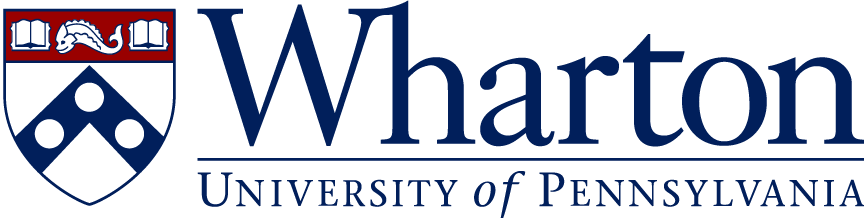
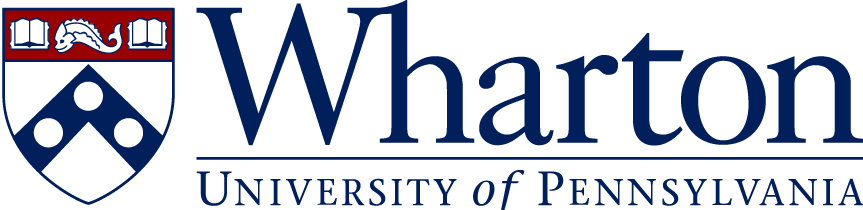
formats

diff --git a/index.html b/index.html
@@ -43,11 +43,11 @@
 
 
 <section id="about" class="w-full">
-    <div class="container flex mx-auto  justify-center md:justify-start" >
+    <div class="container flex mx-auto px-10 justify-center md:justify-start" >
             <p class="drop-shadow-lg pt-20 space-x-4 italic text-6xl text-blue text">ABOUT</p> 
     </div>
 
-    <div class="container flex-wrap mx-auto">
+    <div class="container px-10 flex-wrap mx-auto">
         <p class=" pt-10 space-x-16 text-3xl text-white text">hi! my name is Emily and I’m studying computer science & cinema at the University of Pennsylvania. </p>
     </div>
 
@@ -71,21 +71,21 @@
         
        
 
-    <div class="container mx-auto">
+    <div class="container px-10 mx-auto">
         <p class=" pt-10 text-3xl text-white text"> <span style="color:rgb(222, 189, 105)">WHO: </span> big fan of Taylor Swift, Mindy Kaling, Adam Grant, cats. even bigger “pre-crastinator,” a phrase coined by Adam Grant to describe people who feel the need to start tasks immediately. applies to pretty much every project of mine except this website (only took a year for me to get on it!).
         <br></p>
     </div>
 
-    <div class="container  mx-auto">
+    <div class="container px-10 mx-auto">
         <p class=" pt-10 text-3xl text-white text"> <span style="color:rgb(222, 189, 105)">WHAT: </span> currently on a gap year to do very very important things. can’t reveal too much about my plans...but let’s just say they involve crocheting and finally finishing New Girl.
         <br></p>
         </div>
 
-    <div class="container  mx-auto">
+    <div class="container px-10 mx-auto">
             <p class=" pt-10 text-3xl text-white text"> <span style="color:rgb(222, 189, 105)">WHERE: </span> Bay Area, CA
             <br></p>
         </div>
-    <div class="container  mx-auto">
+    <div class="container px-10 mx-auto">
         <p class=" pt-10 text-3xl text-white text"> <span style="color:rgb(222, 189, 105)">WHY: </span> for the vibes.
         <br></p>
     </div>
@@ -94,7 +94,7 @@
 
 
     <section id="experience" class="w-full">
-        <div class="container flex mx-auto justify-center md:justify-start" >
+        <div class="container px-10 flex mx-auto justify-center md:justify-start" >
             <p class="text-5xl md:text text-6xl flex drop-shadow-lg pt-20 space-x-4 italic  text-blue text">EXPERIENCE</p> 
         </div>
 
@@ -134,12 +134,12 @@
         <nav class="py-12 relative container mx-auto">
             <div class="grid grid-cols-1 md:grid-cols-2 gap-6  mx-auto md:items-center justify-center md:justify-between bg-gradient-to-r from-yellow via-pink to-yellow"
             style="border-radius: 30px; height: 175px;">
-            
+
             <img class = "px-10 sm:px-0 pt-10 md:pt-0 flex sm:pl-32 md:pl-8  drop-shadow-lg w-1-2" src = "images/wharton.png" 
-            width="400" height="500"/> 
+            width="380" height="480"/> 
                 
                 <p class="text-center pb-8 md:pb-0 w-1-2 drop-shadow-lg  italic text-xl md:text-3xl text-white ">
-                    psychology research (fall '21-spring '22)
+                    researcher (fall '21-spring '22)
                 </p>
                 
             </div>
@@ -166,7 +166,7 @@
     
 
 
-<div class="container flex-wrap md: flex mx-auto justify-center md:justify-start">
+<div class="container px-10 flex-wrap md: flex mx-auto justify-center md:justify-start">
     <section id="contact" class="w-full">
         <div class="container flex mx-auto">
             <p class="drop-shadow-lg pt-20 pb-12 -space-x-4 italic text-6xl text-blue text">CONTACT</p>
